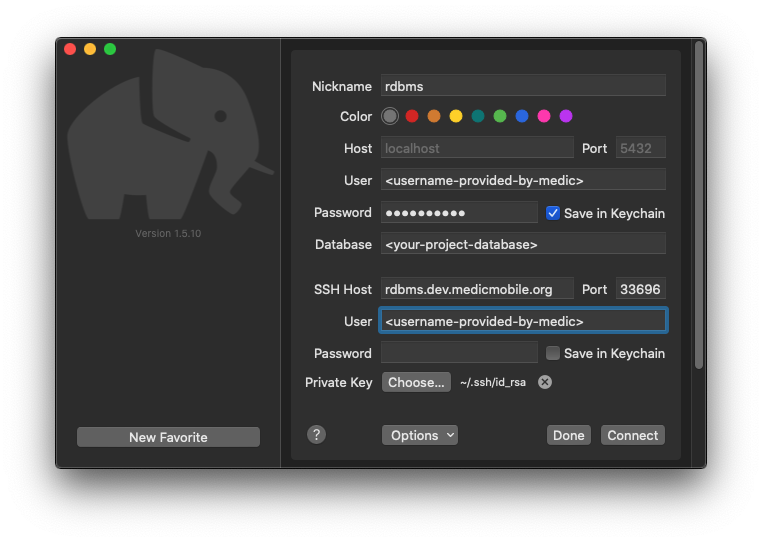
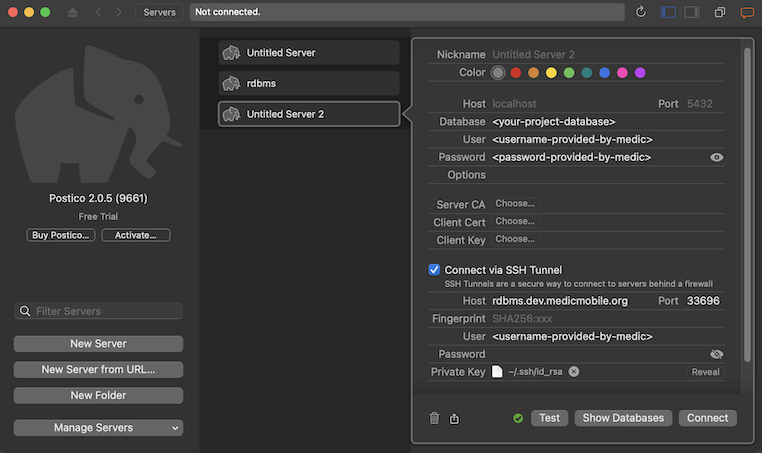
deploy: medic/cht-docs@08ffa164697c8d63a2e20320520e5a3efff4c494

diff --git a/apps/guides/database/rdbms-from-mac/index.html b/apps/guides/database/rdbms-from-mac/index.html
@@ -1,7 +1,7 @@
 <!doctype html><html itemscope itemtype=http://schema.org/WebPage lang=en class=no-js><head><meta charset=utf-8><meta name=viewport content="width=device-width,initial-scale=1,shrink-to-fit=no"><meta name=generator content="Hugo 0.101.0"><meta name=robots content="index, follow"><link rel="shortcut icon" href=/favicons/favicon.ico><link rel=apple-touch-icon href=/favicons/apple-touch-icon-180x180.png sizes=180x180><link rel=icon type=image/png href=/favicons/favicon-16x16.png sizes=16x16><link rel=icon type=image/png href=/favicons/favicon-32x32.png sizes=32x32><link rel=icon type=image/png href=/favicons/android-36x36.png sizes=36x36><link rel=icon type=image/png href=/favicons/android-48x48.png sizes=48x48><link rel=icon type=image/png href=/favicons/android-72x72.png sizes=72x72><link rel=icon type=image/png href=/favicons/android-96x96.png sizes=96x96><link rel=icon type=image/png href=/favicons/android-144x144.png sizes=144x144><link rel=icon type=image/png href=/favicons/android-192x192.png sizes=192x192><title>Connecting to RDBMS from MacOS | Community Health Toolkit</title><meta name=description content="How to connect to the PostgreSQL RDBMS server from MacOS    
 "><meta property="og:title" content="Connecting to RDBMS from MacOS"><meta property="og:description" content="How to connect to the PostgreSQL RDBMS server from MacOS    
-"><meta property="og:type" content="article"><meta property="og:url" content="https://docs.communityhealthtoolkit.org/apps/guides/database/rdbms-from-mac/"><meta property="article:section" content="apps"><meta property="article:modified_time" content="2021-03-03T16:27:50-05:00"><meta property="og:site_name" content="Community Health Toolkit"><meta itemprop=name content="Connecting to RDBMS from MacOS"><meta itemprop=description content="How to connect to the PostgreSQL RDBMS server from MacOS    
-"><meta itemprop=dateModified content="2021-03-03T16:27:50-05:00"><meta itemprop=wordCount content="288"><meta itemprop=keywords content><meta name=twitter:card content="summary"><meta name=twitter:title content="Connecting to RDBMS from MacOS"><meta name=twitter:description content="How to connect to the PostgreSQL RDBMS server from MacOS    
+"><meta property="og:type" content="article"><meta property="og:url" content="https://docs.communityhealthtoolkit.org/apps/guides/database/rdbms-from-mac/"><meta property="article:section" content="apps"><meta property="article:modified_time" content="2024-01-25T09:05:05+03:00"><meta property="og:site_name" content="Community Health Toolkit"><meta itemprop=name content="Connecting to RDBMS from MacOS"><meta itemprop=description content="How to connect to the PostgreSQL RDBMS server from MacOS    
+"><meta itemprop=dateModified content="2024-01-25T09:05:05+03:00"><meta itemprop=wordCount content="348"><meta itemprop=keywords content><meta name=twitter:card content="summary"><meta name=twitter:title content="Connecting to RDBMS from MacOS"><meta name=twitter:description content="How to connect to the PostgreSQL RDBMS server from MacOS    
 "><link rel=preload href=/scss/main.min.4919f14d1f33a59e2399b4e002653462da047808083b2e0e94241ba9ca4b9836.css as=style><link href=/scss/main.min.4919f14d1f33a59e2399b4e002653462da047808083b2e0e94241ba9ca4b9836.css rel=stylesheet integrity><script src=https://code.jquery.com/jquery-3.6.0.min.js integrity=sha384-vtXRMe3mGCbOeY7l30aIg8H9p3GdeSe4IFlP6G8JMa7o7lXvnz3GFKzPxzJdPfGK crossorigin=anonymous></script>
 <script async src="https://www.googletagmanager.com/gtag/js?id=G-98W4V2NTPJ"></script>
 <script>var doNotTrack=!1;if(!doNotTrack){window.dataLayer=window.dataLayer||[];function gtag(){dataLayer.push(arguments)}gtag("js",new Date),gtag("config","G-98W4V2NTPJ")}</script></head><body class=td-page><header><nav class="js-navbar-scroll navbar navbar-expand navbar-dark flex-column flex-md-row td-navbar"><a class=navbar-brand href=/><span class="navbar-brand__logo navbar-logo"><svg version="1.0" width="30pt" height="30pt" viewBox="0 0 30 30" preserveAspectRatio="xMidYMid" id="svg10" sodipodi:docname="logo.svg" xmlns:inkscape="http://www.inkscape.org/namespaces/inkscape" xmlns:sodipodi="http://sodipodi.sourceforge.net/DTD/sodipodi-0.dtd" xmlns="http://www.w3.org/2000/svg" xmlns:svg="http://www.w3.org/2000/svg"><defs id="defs14"/><sodipodi:namedview id="namedview12" pagecolor="#ffffff" bordercolor="#000000" borderopacity=".25" inkscape:showpageshadow="2" inkscape:pageopacity="0" inkscape:pagecheckerboard="0" inkscape:deskcolor="#d1d1d1" inkscape:document-units="pt" showgrid="false"/><g transform="matrix(0.01425486,0,0,-0.01425486,-6.1268548,35.340843)" fill="#fff" stroke="none" id="g8" inkscape:export-filename="logo.svg" inkscape:export-xdpi="11.943796" inkscape:export-ydpi="11.943796"><path d="m1057 24e2c-142-36-238-167-224-305 24-239 311-344 483-178 143 140 96 391-88 468-47 19-125 26-171 15z" id="path2"/><path d="m1945 2076c-34-15-92-76-106-113-26-68-1-170 53-220 97-91 257-61 319 59 21 41 25 120 8 165-14 38-67 92-106 109-40 17-128 17-168 0z" id="path4"/><path d="M9e2 1744c-260-68-440-3e2-440-564 1-272 187-509 450-571 77-18 213-16 285 5 121 36 191 82 341 228l140 137 80-80c58-59 99-90 153-117 73-36 77-37 190-37 110 0 120 2 184 32 376 178 325 721-78 829-158 43-301-4-447-144l-88-85-143 140c-155 153-225 199-349 228-79 18-206 18-278-1zm271-293c24-12 103-77 174-146l130-124-120-121c-148-149-204-182-313-181-96 0-157 27-222 98-149 163-83 410 129 490 53 20 167 12 222-16zm1017-138c44-33 65-69 70-122 9-97-61-171-163-171-60 0-87 15-162 92l-63 64 73 71c39 40 83 77 97 82 37 16 117 7 148-16z" id="path6"/></g></svg></span><span class=navbar-brand__name>Community Health Toolkit</span></a><div class="td-navbar-nav-scroll ml-md-auto" id=main_navbar><ul class="navbar-nav mt-2 mt-lg-0"><li class="nav-item mr-4 mb-2 mb-lg-0"><a class=nav-link href=/apps/reference/><span>Reference</span></a></li></ul></div><div class="navbar-nav d-none d-lg-block"><div class=td-search><div class=td-search__icon></div><input type=search class="td-search__input form-control td-search-input" placeholder="Search this site…" aria-label="Search this site…" autocomplete=off></div></div></nav></header><div class="container-fluid td-outer"><div class=td-main><div class="row flex-xl-nowrap"><aside class="col-12 col-md-3 col-xl-2 td-sidebar d-print-none"><div id=td-sidebar-menu class=td-sidebar__inner><form class="td-sidebar__search d-flex align-items-center"><div class=td-search><div class=td-search__icon></div><input type=search class="td-search__input form-control td-search-input" placeholder="Search this site…" aria-label="Search this site…" autocomplete=off></div><button class="btn btn-link td-sidebar__toggle d-md-none p-0 ml-3 fas fa-bars" type=button data-toggle=collapse data-target=#td-section-nav aria-controls=td-section-nav aria-expanded=false aria-label="Toggle section navigation"></button></form><nav class="collapse td-sidebar-nav foldable-nav" id=td-section-nav><ul class="td-sidebar-nav__section ul-0"><li class="td-sidebar-nav__section-title td-sidebar-nav__section with-child active-path" id=m--li><ul class=ul-1><li class="td-sidebar-nav__section-title td-sidebar-nav__section without-child" id=m-why-the-cht-li><input type=checkbox id=m-why-the-cht-check>
@@ -277,13 +277,13 @@
 <label for=m-contributemediconboardingall-the-things-check><a href=/contribute/medic/onboarding/all-the-things/ class="align-left pl-0 td-sidebar-link td-sidebar-link__page" id=m-contributemediconboardingall-the-things><span>All The Things</span></a></label></li><li class="td-sidebar-nav__section-title td-sidebar-nav__section without-child" id=m-contributemediconboardingtechnical-resources-li><input type=checkbox id=m-contributemediconboardingtechnical-resources-check>
 <label for=m-contributemediconboardingtechnical-resources-check><a href=/contribute/medic/onboarding/technical-resources/ class="align-left pl-0 td-sidebar-link td-sidebar-link__page" id=m-contributemediconboardingtechnical-resources><span>Technical Resources</span></a></label></li></ul></li></ul></li></ul></li><li class="td-sidebar-nav__section-title td-sidebar-nav__section without-child" id=m-glossary-li><input type=checkbox id=m-glossary-check>
 <label for=m-glossary-check><a href=/glossary/ title="Glossary and Definitions" class="align-left pl-0 td-sidebar-link td-sidebar-link__page" id=m-glossary><span>Glossary</span></a></label></li></ul></li></ul></nav></div></aside><aside class="d-none d-xl-block col-xl-2 td-sidebar-toc d-print-none"><div class="td-page-meta ml-2 pb-1 pt-2 mb-0"><a href=https://github.com/medic/cht-docs/edit/main/content/en/apps/guides/database/rdbms-from-mac.md class=td-page-meta--edit target=_blank rel=noopener><i class="fa fa-edit fa-fw"></i> Edit this page</a>
-<a href="https://github.com/medic/cht-docs/issues/new?title=Improve+%27Connecting%20to%20RDBMS%20from%20MacOS%27&labels=enhancement&body=Page:+/apps/guides/database/rdbms-from-mac/%0aVersion:+2021-03-03%2016:27:50%20-0500%20-0500%0a---" class=td-page-meta--issue target=_blank rel=noopener><i class="fab fa-github fa-fw"></i> Create documentation issue</a>
-<a href=https://github.com/medic/cht-core/issues/new class=td-page-meta--project-issue target=_blank rel=noopener><i class="fas fa-tasks fa-fw"></i> Create project issue</a></div><div class=td-toc><nav id=TableOfContents><ul><li><a href=#access-terminal>Access Terminal</a></li><li><a href=#generate-key>Generate Key</a></li><li><a href=#connect-to-postgresql>Connect to PostgreSQL</a></li></ul></nav></div></aside><main class="col-12 col-md-9 col-xl-8 pl-md-5" role=main><nav aria-label=breadcrumb class=td-breadcrumbs><ol class=breadcrumb><li class=breadcrumb-item><a href=https://docs.communityhealthtoolkit.org/apps/>CHT Applications</a></li><li class=breadcrumb-item><a href=https://docs.communityhealthtoolkit.org/apps/guides/>Quick Guides</a></li><li class=breadcrumb-item><a href=https://docs.communityhealthtoolkit.org/apps/guides/database/>Database</a></li><li class="breadcrumb-item active" aria-current=page><a href=https://docs.communityhealthtoolkit.org/apps/guides/database/rdbms-from-mac/ aria-disabled=true class="btn-link disabled">RDBMS from MacOS</a></li></ol></nav><div class=td-content><h1>Connecting to RDBMS from MacOS</h1><div class=lead>How to connect to the PostgreSQL RDBMS server from MacOS</div><header class=article-meta></header><p>Follow these steps on a Mac to generate your public/private keys and access the PostgreSQL server.</p><h2 id=access-terminal>Access Terminal</h2><p>Terminal (Terminal.app) is the terminal emulator included in the macOS operating system. You can use this application to generate your SSH key.</p><ol><li>Open a new <strong>Finder</strong> window</li><li>Navigate to the <strong>Applications</strong> folder</li><li>Navigate to the <strong>Utilities</strong> folder</li><li>Open the <strong>Terminal</strong> app</li></ol><p><img src=terminal.png alt=Terminal></p><h2 id=generate-key>Generate Key</h2><p>From Terminal, follow these instructions (see screenshot below):</p><ol><li>Type: <code>ssh-keygen -t rsa</code></li><li>Hit return to use the default file / location</li><li>Enter a <em>passphrase</em></li><li>Enter your <em>passphrase</em> again</li><li>Type: <code>cat ~/.ssh/id_rsa.pub</code></li></ol><p>In the screenshot below:</p><ul><li><code>(a)</code> is the location and filename of your <em><strong>private</strong></em> key</li><li><code>(b)</code> is the location and filename of your <em><strong>public</strong></em> key</li><li><code>(c)</code> are the contents of your <em><strong>public</strong></em> key</li></ul><div class="alert alert-primary" role=alert><h4 class=alert-heading>Note</h4>You will need to provide the contents of <code>(c)</code> to your Medic contact or RDBMS administrator. It should start with <code>ssh-rsa</code> and end with something that looks like an email address. This information is not sensitive and can be shared over slack, github, etc&mldr;</div><p><img src=ssh-commands.png alt="SSH Commands"></p><h2 id=connect-to-postgresql>Connect to PostgreSQL</h2><p>Once your public SSH key has been installed on RDBMS, the administrator will provide you with login credentials to the SSH server as well as for PostgreSQL. You should be able to access PostgreSQL from a SQL client using those credentials. Some common SQL clients include: <a href=https://www.pgadmin.org/>pgAdmin</a>, <a href=https://dbeaver.io/>DBeaver</a>, <a href=https://eggerapps.at/postico/>Postico</a>.</p><p>From your SQL client, use the settings mentioned below to connect. Be sure to select the <em><strong>Private Key</strong></em> that you generated above.</p><table><thead><tr><th>Field</th><th>Value</th></tr></thead><tbody><tr><td>Host</td><td><code>localhost</code></td></tr><tr><td>Host Port</td><td><code>5432</code></td></tr><tr><td>User</td><td><code>&lt;provided by Medic></code></td></tr><tr><td>Password</td><td><code>&lt;provided by Medic></code></td></tr><tr><td>Database</td><td><code>&lt;your project database></code></td></tr><tr><td>SSH Host</td><td><code>rdbms.dev.medicmobile.org</code></td></tr><tr><td>SSH Port</td><td><code>33696</code></td></tr><tr><td>SSH User</td><td><code>&lt;provided by Medic></code></td></tr><tr><td>SSH Password</td><td>N/A - Use Private Key</td></tr><tr><td>Private Key</td><td>Use the private key generated above</td></tr></tbody></table><p><img src=connection-settings.png alt="PG Connection Settings"></p><h2 id=related-content>Related Content</h2><div class=section-index><hr class=panel-line><div class=entry><h5><a href=/apps/guides/database/rdbms-from-windows/>CHT Applications >
+<a href="https://github.com/medic/cht-docs/issues/new?title=Improve+%27Connecting%20to%20RDBMS%20from%20MacOS%27&labels=enhancement&body=Page:+/apps/guides/database/rdbms-from-mac/%0aVersion:+2024-01-25%2009:05:05%20+0300%20+0300%0a---" class=td-page-meta--issue target=_blank rel=noopener><i class="fab fa-github fa-fw"></i> Create documentation issue</a>
+<a href=https://github.com/medic/cht-core/issues/new class=td-page-meta--project-issue target=_blank rel=noopener><i class="fas fa-tasks fa-fw"></i> Create project issue</a></div><div class=td-toc><nav id=TableOfContents><ul><li><a href=#access-terminal>Access Terminal</a></li><li><a href=#generate-key>Generate Key</a></li><li><a href=#connect-to-postgresql>Connect to PostgreSQL</a></li></ul></nav></div></aside><main class="col-12 col-md-9 col-xl-8 pl-md-5" role=main><nav aria-label=breadcrumb class=td-breadcrumbs><ol class=breadcrumb><li class=breadcrumb-item><a href=https://docs.communityhealthtoolkit.org/apps/>CHT Applications</a></li><li class=breadcrumb-item><a href=https://docs.communityhealthtoolkit.org/apps/guides/>Quick Guides</a></li><li class=breadcrumb-item><a href=https://docs.communityhealthtoolkit.org/apps/guides/database/>Database</a></li><li class="breadcrumb-item active" aria-current=page><a href=https://docs.communityhealthtoolkit.org/apps/guides/database/rdbms-from-mac/ aria-disabled=true class="btn-link disabled">RDBMS from MacOS</a></li></ol></nav><div class=td-content><h1>Connecting to RDBMS from MacOS</h1><div class=lead>How to connect to the PostgreSQL RDBMS server from MacOS</div><header class=article-meta></header><p>Follow these steps on a Mac to generate your public/private keys and access the PostgreSQL server.</p><h2 id=access-terminal>Access Terminal</h2><p>Terminal (Terminal.app) is the terminal emulator included in the macOS operating system. You can use this application to generate your SSH key.</p><ol><li>Open a new <strong>Finder</strong> window</li><li>Navigate to the <strong>Applications</strong> folder</li><li>Navigate to the <strong>Utilities</strong> folder</li><li>Open the <strong>Terminal</strong> app</li></ol><p><img src=terminal.png alt=Terminal></p><h2 id=generate-key>Generate Key</h2><p>From Terminal, follow these instructions (see screenshot below):</p><ol><li>Type: <code>ssh-keygen -t rsa</code></li><li>Hit return to use the default file / location</li><li>Enter a <em>passphrase</em></li><li>Enter your <em>passphrase</em> again</li><li>Type: <code>cat ~/.ssh/id_rsa.pub</code></li></ol><p>In the screenshot below:</p><ul><li><code>(a)</code> is the location and filename of your <em><strong>private</strong></em> key</li><li><code>(b)</code> is the location and filename of your <em><strong>public</strong></em> key</li><li><code>(c)</code> are the contents of your <em><strong>public</strong></em> key</li></ul><div class="alert alert-primary" role=alert><h4 class=alert-heading>Note</h4>You will need to provide the contents of <code>(c)</code> to your Medic contact or RDBMS administrator. It should start with <code>ssh-rsa</code> and end with something that looks like an email address.</div><p><img src=ssh-commands.png alt="SSH Commands"></p><h2 id=connect-to-postgresql>Connect to PostgreSQL</h2><p>Copy your public key and provide it to your Medic contact or RDBMS administrator. Your public key is not sensitive and can be shared over slack, github, etc&mldr;</p><p>Once the RDBMS administrator has added your public SSH key on RDBMS, the administrator will provide you with login credentials to the SSH server as well as for PostgreSQL.</p><p>Verify you can successfully connect to to the SSH server with <code>ssh -i ~/.ssh/id_rsa &lt;user>@&lt;rdbms host> -p &lt;port></code>. If your setup is correct, you should login to the server and see the prompt of your terminal change to <code>&lt;user>@rdbms:~$</code></p><p>You should be able to access PostgreSQL from a SQL client using the provided credentials. Some common SQL clients include: <a href=https://www.pgadmin.org/>pgAdmin</a>, <a href=https://dbeaver.io/>DBeaver</a>, <a href=https://eggerapps.at/postico/>Postico</a>.</p><p>From your SQL client, use the settings mentioned below to connect. Be sure to select the <em><strong>Private Key</strong></em> that you generated above.</p><table><thead><tr><th>Field</th><th>Value</th></tr></thead><tbody><tr><td>Host</td><td><code>localhost</code></td></tr><tr><td>Host Port</td><td><code>5432</code></td></tr><tr><td>User</td><td><code>&lt;provided by Medic></code></td></tr><tr><td>Password</td><td><code>&lt;provided by Medic></code></td></tr><tr><td>Database</td><td><code>&lt;provided by Medic></code></td></tr><tr><td>SSH Host</td><td><code>rdbms.dev.medicmobile.org</code></td></tr><tr><td>SSH Port</td><td><code>33696</code></td></tr><tr><td>SSH User</td><td><code>&lt;provided by Medic></code></td></tr><tr><td>SSH Password</td><td>N/A - Use Private Key</td></tr><tr><td>Private Key</td><td>Choose the location of the private key generated above</td></tr></tbody></table><p><img src=connection-settings.png alt="PG Connection Settings"></p><h2 id=related-content>Related Content</h2><div class=section-index><hr class=panel-line><div class=entry><h5><a href=/apps/guides/database/rdbms-from-windows/>CHT Applications >
 Quick Guides >
 Database >
 RDBMS from Windows</a></h5><p class=one-liner>How to connect to the PostgreSQL RDBMS server from Windows</p></div></div><style>.feedback--answer{display:inline-block}.feedback--answer-no{margin-left:1em}.feedback--response{display:none;margin-top:1em}.feedback--response__visible{display:block}</style><div class=d-print-none><h2 class=feedback--title>Feedback</h2><p class=feedback--question>Was this page helpful?</p><button class="btn btn-primary mb-4 feedback--answer feedback--answer-yes">Yes</button>
-<button class="btn btn-primary mb-4 feedback--answer feedback--answer-no">No</button><p class="feedback--response feedback--response-yes">Glad to hear it! Please <a href=https://github.com/medic/cht-docs/issues/new>tell us how we can improve</a>.</p><p class="feedback--response feedback--response-no">Sorry to hear that. Please <a href=https://github.com/medic/cht-docs/issues/new>tell us how we can improve</a>.</p></div><script>const yesButton=document.querySelector(".feedback--answer-yes"),noButton=document.querySelector(".feedback--answer-no"),yesResponse=document.querySelector(".feedback--response-yes"),noResponse=document.querySelector(".feedback--response-no"),disableButtons=()=>{yesButton.disabled=!0,noButton.disabled=!0},sendFeedback=e=>{if(typeof ga!="function")return;const t={command:"send",hitType:"event",category:"Helpful",action:"click",label:window.location.pathname,value:e};ga(t.command,t.hitType,t.category,t.action,t.label,t.value)};yesButton.addEventListener("click",()=>{yesResponse.classList.add("feedback--response__visible"),disableButtons(),sendFeedback(1)}),noButton.addEventListener("click",()=>{noResponse.classList.add("feedback--response__visible"),disableButtons(),sendFeedback(0)})</script><br><div class="text-muted mt-5 pt-3 border-top">Last modified 03.03.2021: <a href=https://github.com/medic/cht-docs/commit/b8e0e657a400cbd77500b70f2518f800b28f8405>Updated references to Medic Mobile (#444) (b8e0e657)</a></div><div class="d-xl-none d-print-none meta-links"><div class="td-page-meta ml-2 pb-1 pt-2 mb-0"><a href=https://github.com/medic/cht-docs/edit/main/content/en/apps/guides/database/rdbms-from-mac.md class=td-page-meta--edit target=_blank rel=noopener><i class="fa fa-edit fa-fw"></i> Edit this page</a>
-<a href="https://github.com/medic/cht-docs/issues/new?title=Improve+%27Connecting%20to%20RDBMS%20from%20MacOS%27&labels=enhancement&body=Page:+/apps/guides/database/rdbms-from-mac/%0aVersion:+2021-03-03%2016:27:50%20-0500%20-0500%0a---" class=td-page-meta--issue target=_blank rel=noopener><i class="fab fa-github fa-fw"></i> Create documentation issue</a>
+<button class="btn btn-primary mb-4 feedback--answer feedback--answer-no">No</button><p class="feedback--response feedback--response-yes">Glad to hear it! Please <a href=https://github.com/medic/cht-docs/issues/new>tell us how we can improve</a>.</p><p class="feedback--response feedback--response-no">Sorry to hear that. Please <a href=https://github.com/medic/cht-docs/issues/new>tell us how we can improve</a>.</p></div><script>const yesButton=document.querySelector(".feedback--answer-yes"),noButton=document.querySelector(".feedback--answer-no"),yesResponse=document.querySelector(".feedback--response-yes"),noResponse=document.querySelector(".feedback--response-no"),disableButtons=()=>{yesButton.disabled=!0,noButton.disabled=!0},sendFeedback=e=>{if(typeof ga!="function")return;const t={command:"send",hitType:"event",category:"Helpful",action:"click",label:window.location.pathname,value:e};ga(t.command,t.hitType,t.category,t.action,t.label,t.value)};yesButton.addEventListener("click",()=>{yesResponse.classList.add("feedback--response__visible"),disableButtons(),sendFeedback(1)}),noButton.addEventListener("click",()=>{noResponse.classList.add("feedback--response__visible"),disableButtons(),sendFeedback(0)})</script><br><div class="text-muted mt-5 pt-3 border-top">Last modified 25.01.2024: <a href=https://github.com/medic/cht-docs/commit/08ffa164697c8d63a2e20320520e5a3efff4c494>Chore: update RDBMS setup guide (#1271) (08ffa164)</a></div><div class="d-xl-none d-print-none meta-links"><div class="td-page-meta ml-2 pb-1 pt-2 mb-0"><a href=https://github.com/medic/cht-docs/edit/main/content/en/apps/guides/database/rdbms-from-mac.md class=td-page-meta--edit target=_blank rel=noopener><i class="fa fa-edit fa-fw"></i> Edit this page</a>
+<a href="https://github.com/medic/cht-docs/issues/new?title=Improve+%27Connecting%20to%20RDBMS%20from%20MacOS%27&labels=enhancement&body=Page:+/apps/guides/database/rdbms-from-mac/%0aVersion:+2024-01-25%2009:05:05%20+0300%20+0300%0a---" class=td-page-meta--issue target=_blank rel=noopener><i class="fab fa-github fa-fw"></i> Create documentation issue</a>
 <a href=https://github.com/medic/cht-core/issues/new class=td-page-meta--project-issue target=_blank rel=noopener><i class="fas fa-tasks fa-fw"></i> Create project issue</a></div></div></div></main></div></div><footer class="bg-dark py-5 row d-print-none"><div class="container-fluid mx-sm-5"><div class=row><div class="col-6 col-sm-4 text-xs-center order-sm-2"></div><div class="col-6 col-sm-4 text-right text-xs-center order-sm-3"></div><div class="col-12 col-sm-4 text-center py-2 order-sm-2"><small class=text-white>&copy; 2024 CHT All Rights Reserved</small>
 <small class=ml-1><a href="https://docs.google.com/document/d/1MaI1rgYMNyCZF2eEjBuvnBDoCYHDKlx4k_N5pkDiWu8/edit?usp=sharing" target=_blank rel=noopener>Privacy Policy</a></small></div></div></div></footer></div><script src=/js/main.min.406a8c155fb817dcd94d0bb98261ffd805c0aef0cfca7316642e417e466b8ce2.js integrity="sha256-QGqMFV+4F9zZTQu5gmH/2AXArvDPynMWZC5BfkZrjOI=" crossorigin=anonymous></script>
 <script src=/js/tabpane-persist.js></script></body></html>
